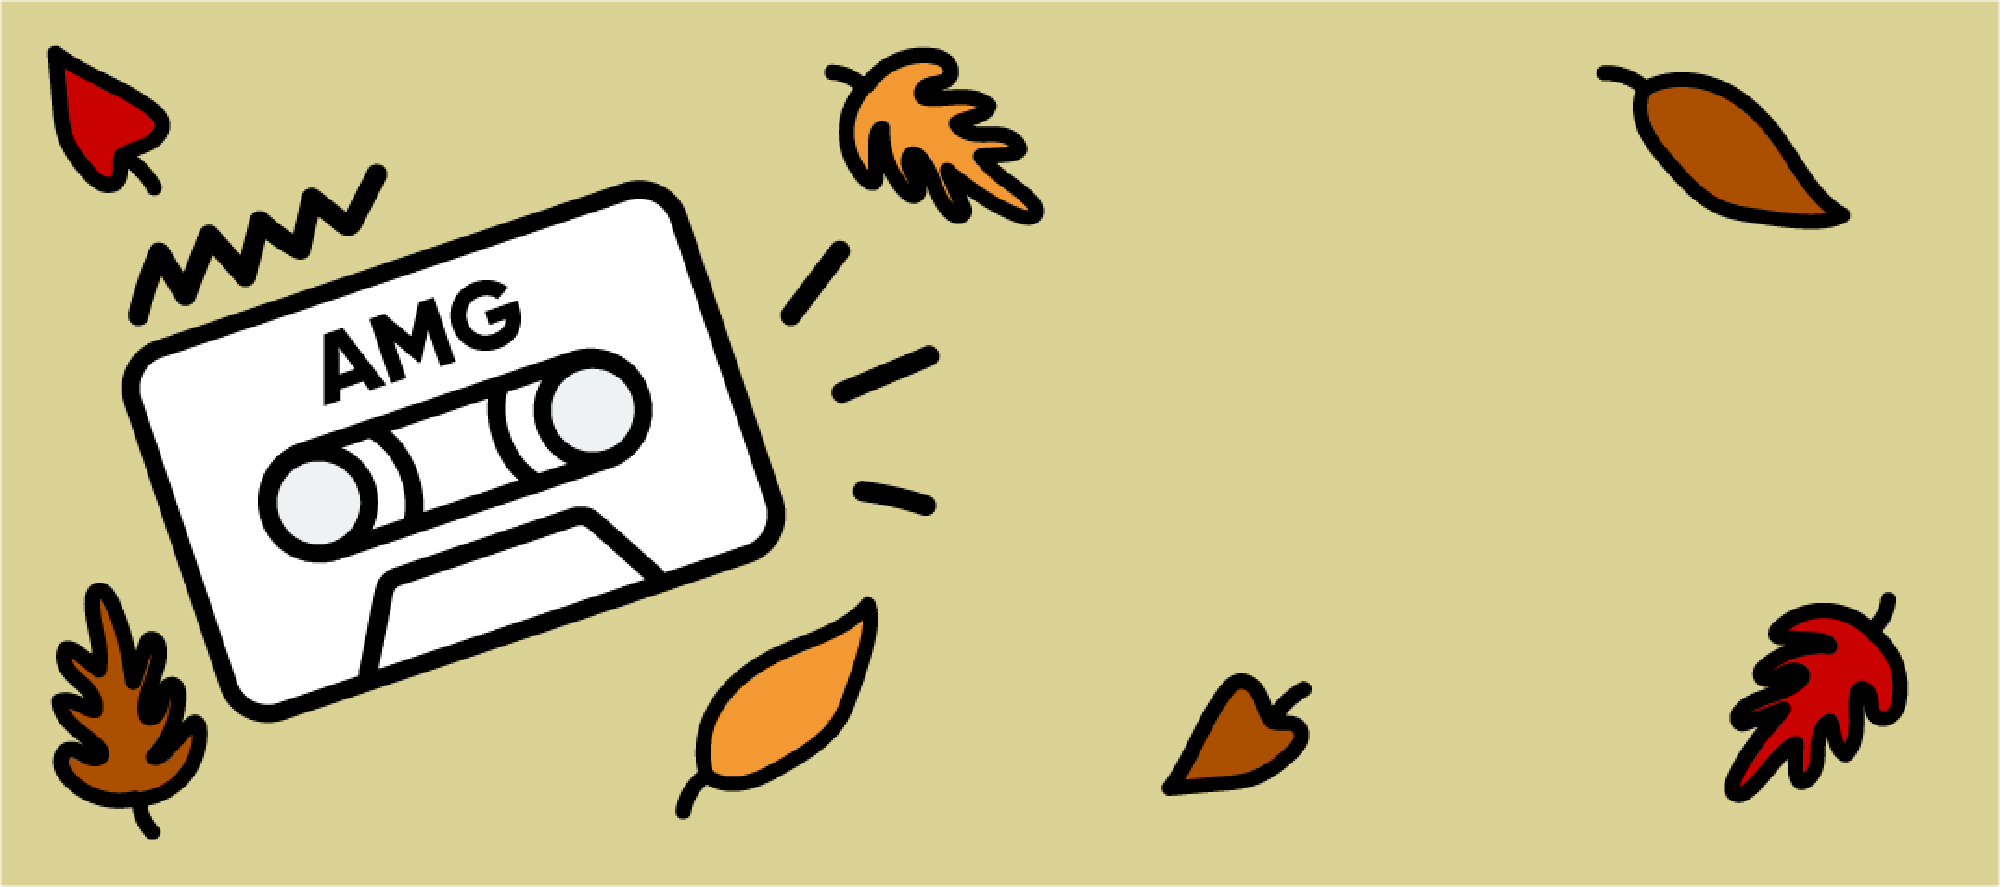
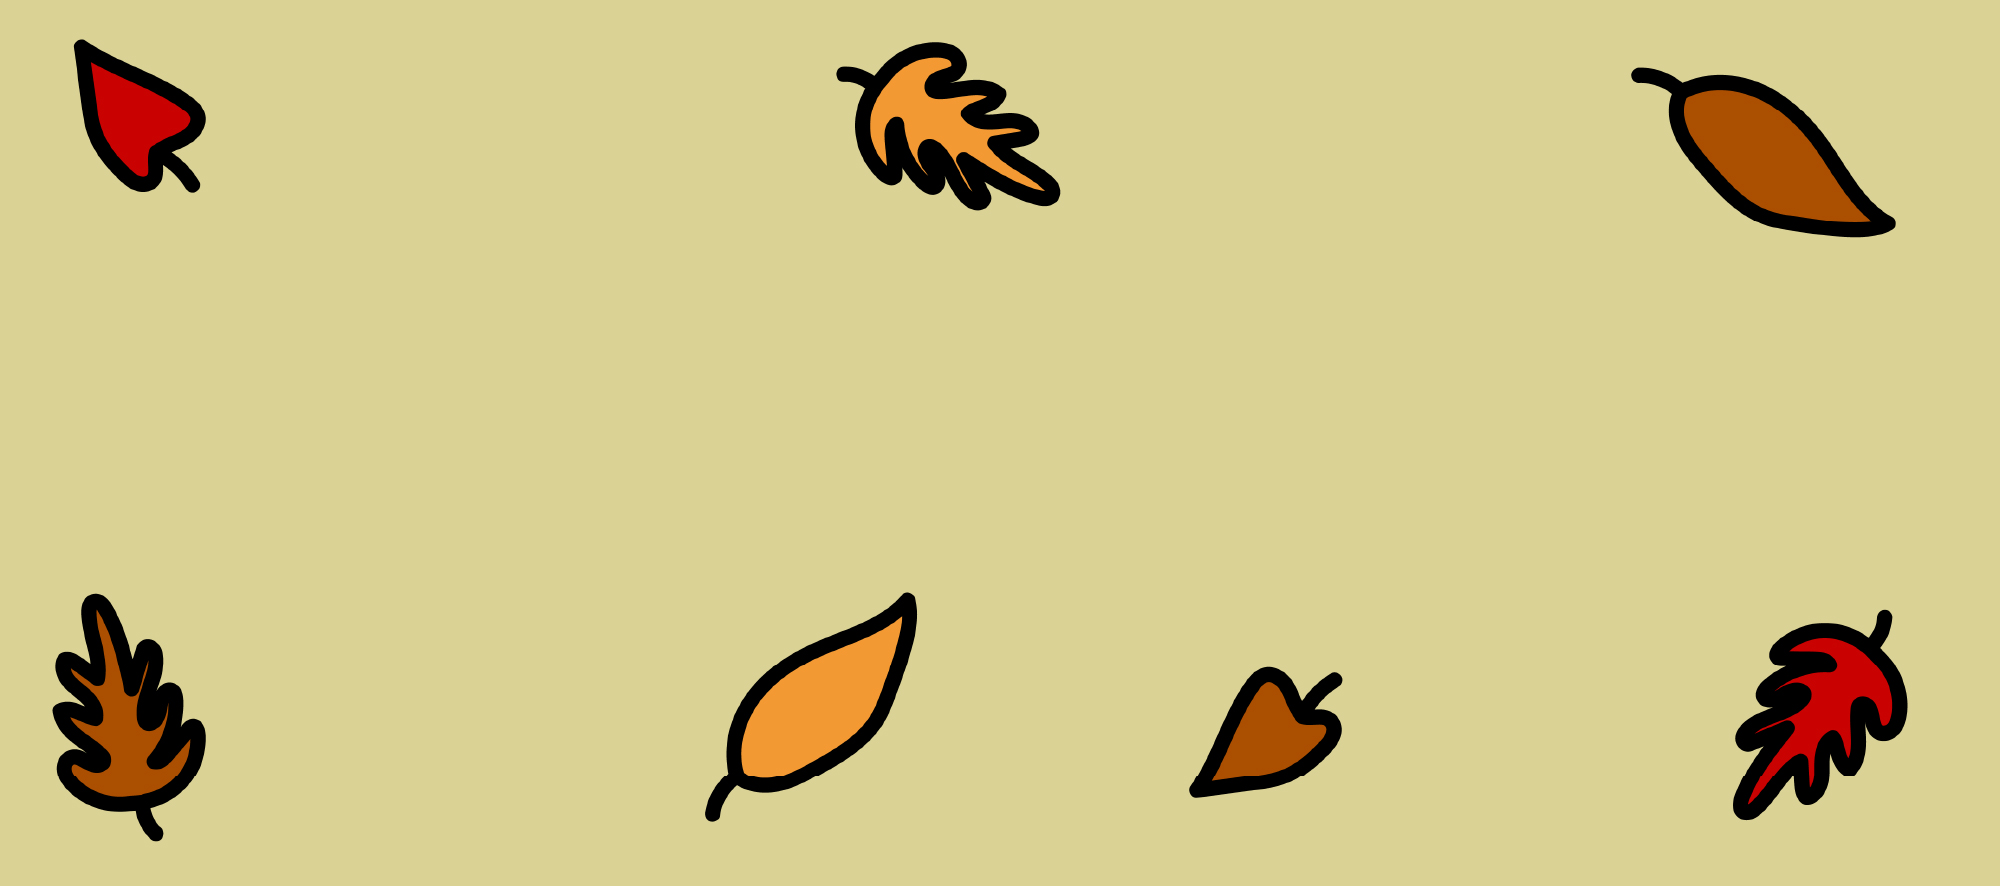
updates

diff --git a/index.html b/index.html
@@ -31,26 +31,26 @@
 		<div class="email-banner amg-banner background--red text--uppercase text--white text--bold">
 			Due to COVID-19 concert cancellations, we are using this downtime to bring you something really exciting!
 		</div>
-		<!-- <div class="amg-section amg-section--black-text amg-section--center email-banner email-banner--horizontal text--white amg-section--full-img">
+		<div class="amg-section amg-section--black-text amg-section--center email-banner email-banner--horizontal text--white amg-section--full-img">
 			<div class="email-banner__inner">
 				<div class="email-banner__text">			
 					<h2>
 						AMG Update 
 						<br>
-						11/15/2021
+						11/22/2021
 					</h2>
 				</div>
 				<div class="email-banner__image">
 					<img src="images/amg-banner-2-15.png"/>
 				</div>
 				<div class="email-banner__button">
-					<a href="https://mailchi.mp/eb11ed0482c5/asheville-music-guide-critics-picks-4835301?e=9cf8691447" class="btn">
+					<a href="https://mailchi.mp/284500a6b8ee/asheville-music-guide-critics-picks-4837105?e=9cf8691447" class="btn">
 						Check Out This Week's Music News
 					</a>	
 				</div>
 			</div>
-		</div> -->
-		<div class="amg-section amg-section--black-text amg-section--center full-bleed-banner text--black">
+		</div>
+<!-- 		<div class="amg-section amg-section--black-text amg-section--center full-bleed-banner text--black">
 			<div class="full-bleed-banner__inner">
 				<div class="full-bleed-banner__image">
 					<img src="images/amg-background-11-22-2021.jpg"/>
@@ -68,7 +68,7 @@
 					</div>
 				</div>
 			</div>
-		</div>		
+		</div> -->		
 		<div class="amg-section amg-section--main amg-section--back-text amg-section--image-left background--yellow padding-top--large padding-bottom--large amg-section--center">
 			<div class="inner">
 				<div class="amg-section__image">
@@ -114,7 +114,7 @@
 					</h2>
 					<p>
 						<span>
-							<a href="https://mailchi.mp/eb11ed0482c5/asheville-music-guide-critics-picks-4835301?e=9cf8691447">
+							<a href="https://mailchi.mp/284500a6b8ee/asheville-music-guide-critics-picks-4837105?e=9cf8691447">
 								Check out this week's newsletter!
 							</a>
 						</span>						

diff --git a/css/prc.css b/css/prc.css
@@ -39,13 +39,12 @@ span{
 	position: relative;
 }
 
-.email-banner{
-	background: #df7927;
-	padding: 5rem 0;
-	/*background: url('../images/amg-banner-10-25-2021.jpg');*/
-	background-size: cover;
-	background-attachment: fixed;
-	background-position: bottom center;
+.email-banner {
+  background: #df7927;
+  padding: 5rem 0;
+  background: url('../images/amg-background-11-22-2021.jpg');
+  background-size: cover;
+  background-size: auto 100%;
 }
 
 .full-bleed-banner{
